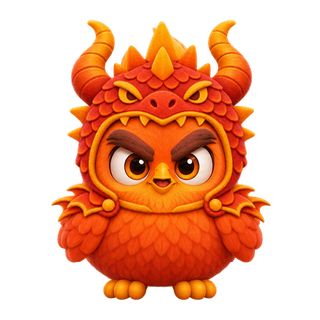
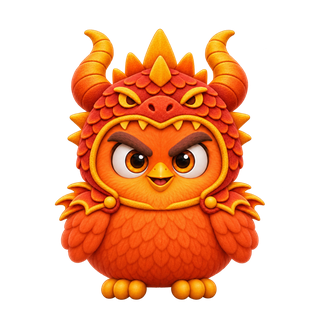
Ember dragon skin: front and blink frames painted whole too

diff --git a/docs/work-log/whole-bird-skins/report.md b/docs/work-log/whole-bird-skins/report.md
@@ -1,8 +1,8 @@
 # Whole-bird skins: report
 
 ## Done
-- 66 frames of `ember_outfit_5` (dragon hood) painted whole by local Codex from the plain Ember frames: turns,
-  preen, flap, hop, cheer, nine still poses, fly up/down and all flight frames. Five first attempts were rejected and
+- 69 frames of `ember_outfit_5` (dragon hood) painted whole by local Codex from the plain Ember frames: turns,
+  preen, flap, hop, cheer, nine still poses, fly up/down, all flight frames, and the front and blink frames. Five first attempts were rejected and
   repainted (two birds in one frame, hood missing, motion smear, ground shadow).
 - `BirdView` loads such a skin as its own bird; the overlay is not drawn for it.
 - Preview state `aviary_view:detail_ember_skin` (also in `scripts/screenshots.sh`).
@@ -15,4 +15,3 @@
 ## Open
 - User review of the trial skin's motion on device.
 - After approval: repaint the other skins the same way and retire the overlay path and `outfit_anchors.json`.
-- The front and blink frames of this skin are still the earlier composites (they line up); repaint them with the rest.
